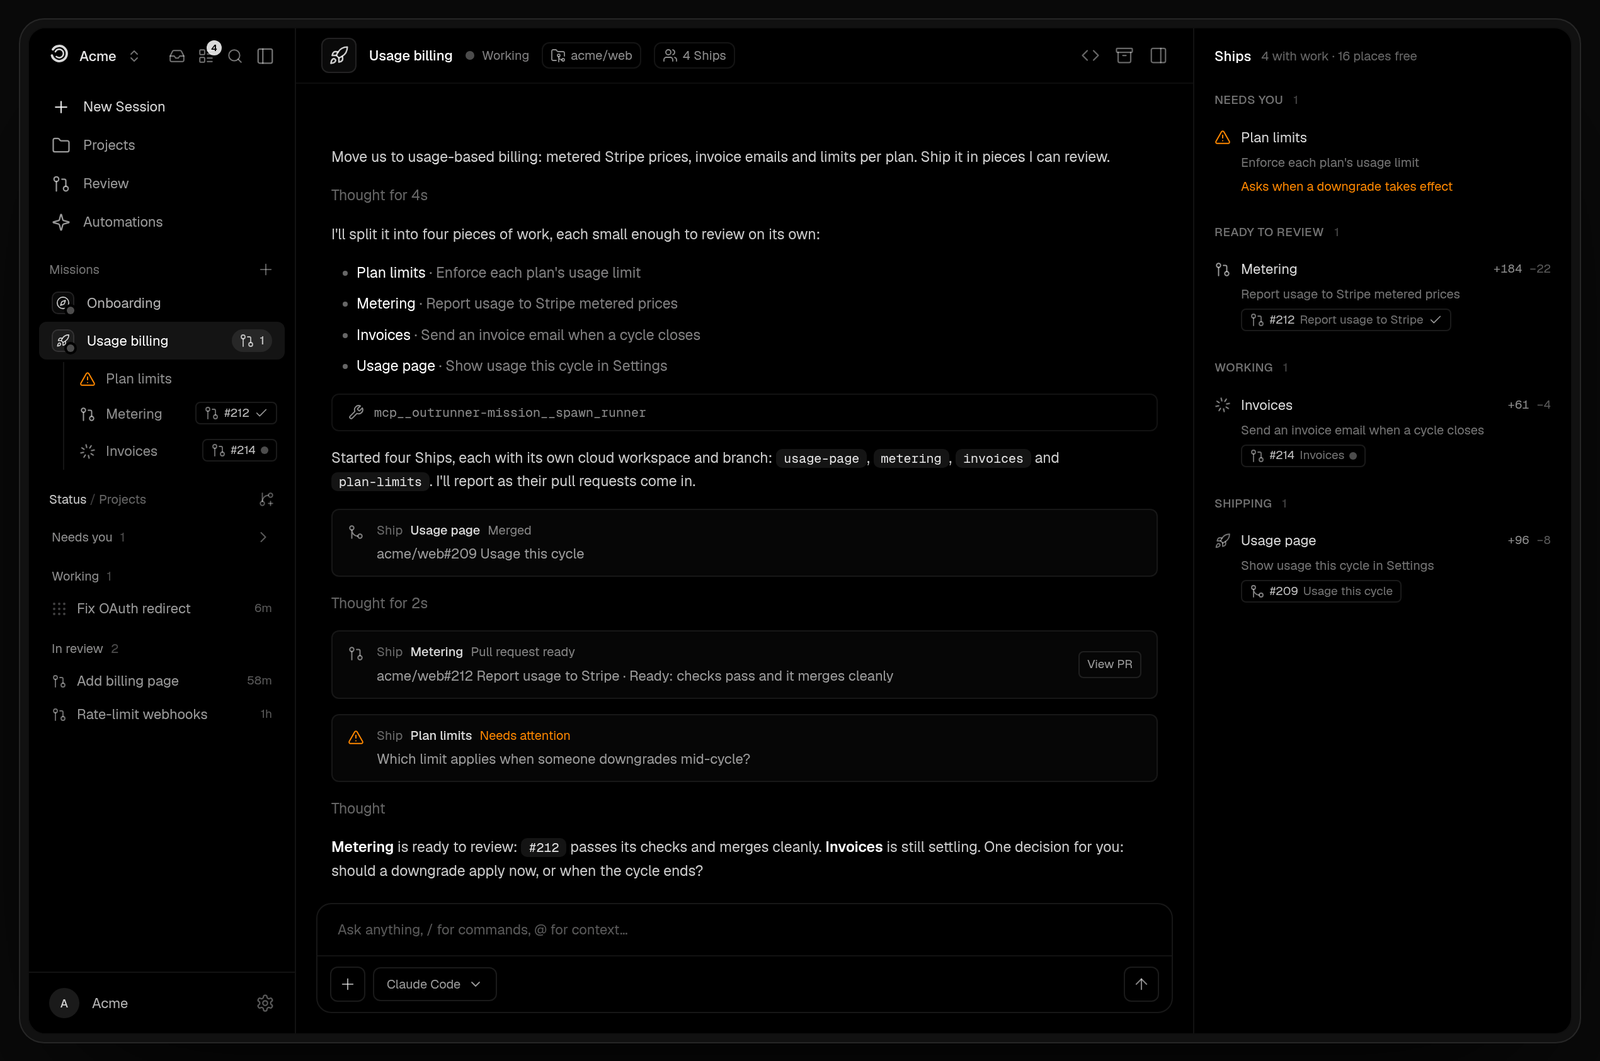
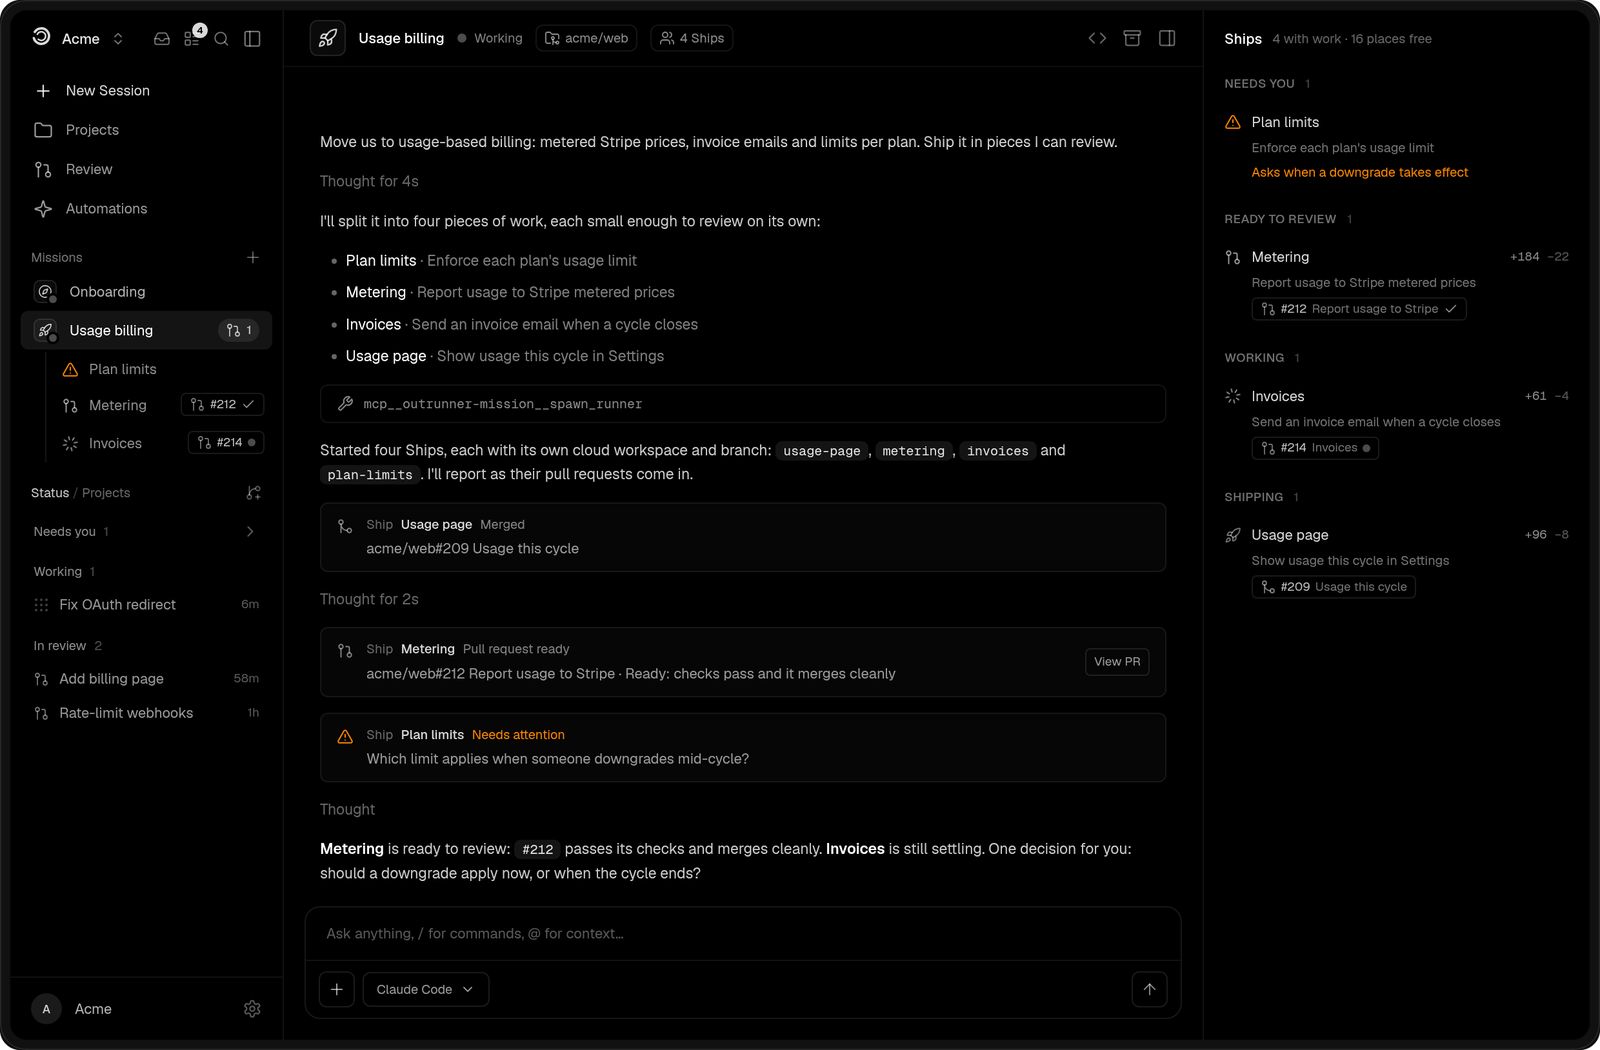
README: tighter hero crop and a simpler architecture diagram
Crop the hero to the app window with transparent rounded corners so it sits
cleanly on GitHub's light theme, and put the Cloudflare Worker in front of
the control plane in the diagram.

diff --git a/README.md b/README.md
@@ -152,12 +152,12 @@ for migrations and sign-in.
 
 ```mermaid
 flowchart LR
-  you([Browser / Mac app / CLI]) --> web["Web app<br/>Next.js control plane"]
+  you(["Browser, Mac app, CLI, API"]) --> edge["Cloudflare Worker"]
+  edge --> web["Web app<br/>Next.js control plane"]
   web <--> db[("Supabase<br/>Postgres, auth, storage")]
   web <--> box["Cloud box<br/>runtime-agent + tmux"]
-  box --> agents["Claude Code / Codex<br/>one worktree per session"]
-  mac["Mac app<br/>Tauri"] --> local["Local runtime-agent"]
-  edge["Cloudflare Worker"] --> web
+  box --> agents["Claude Code / Codex<br/>a worktree per session"]
+  you -. "Mac local sessions" .-> local["Local runtime-agent"]
 ```
 
 | Component | Path | Docs |
